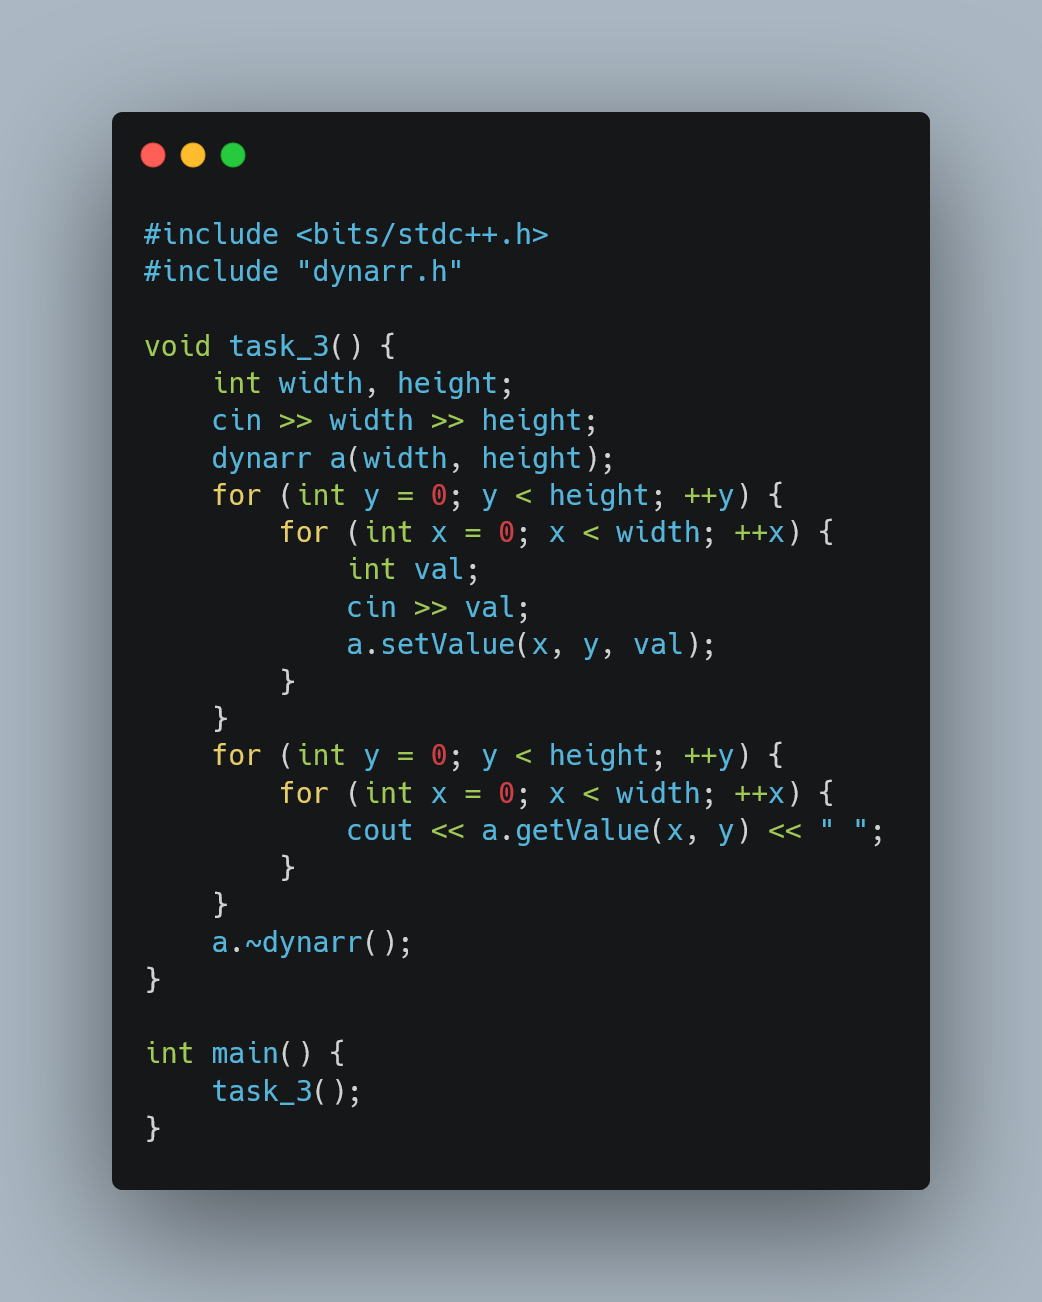
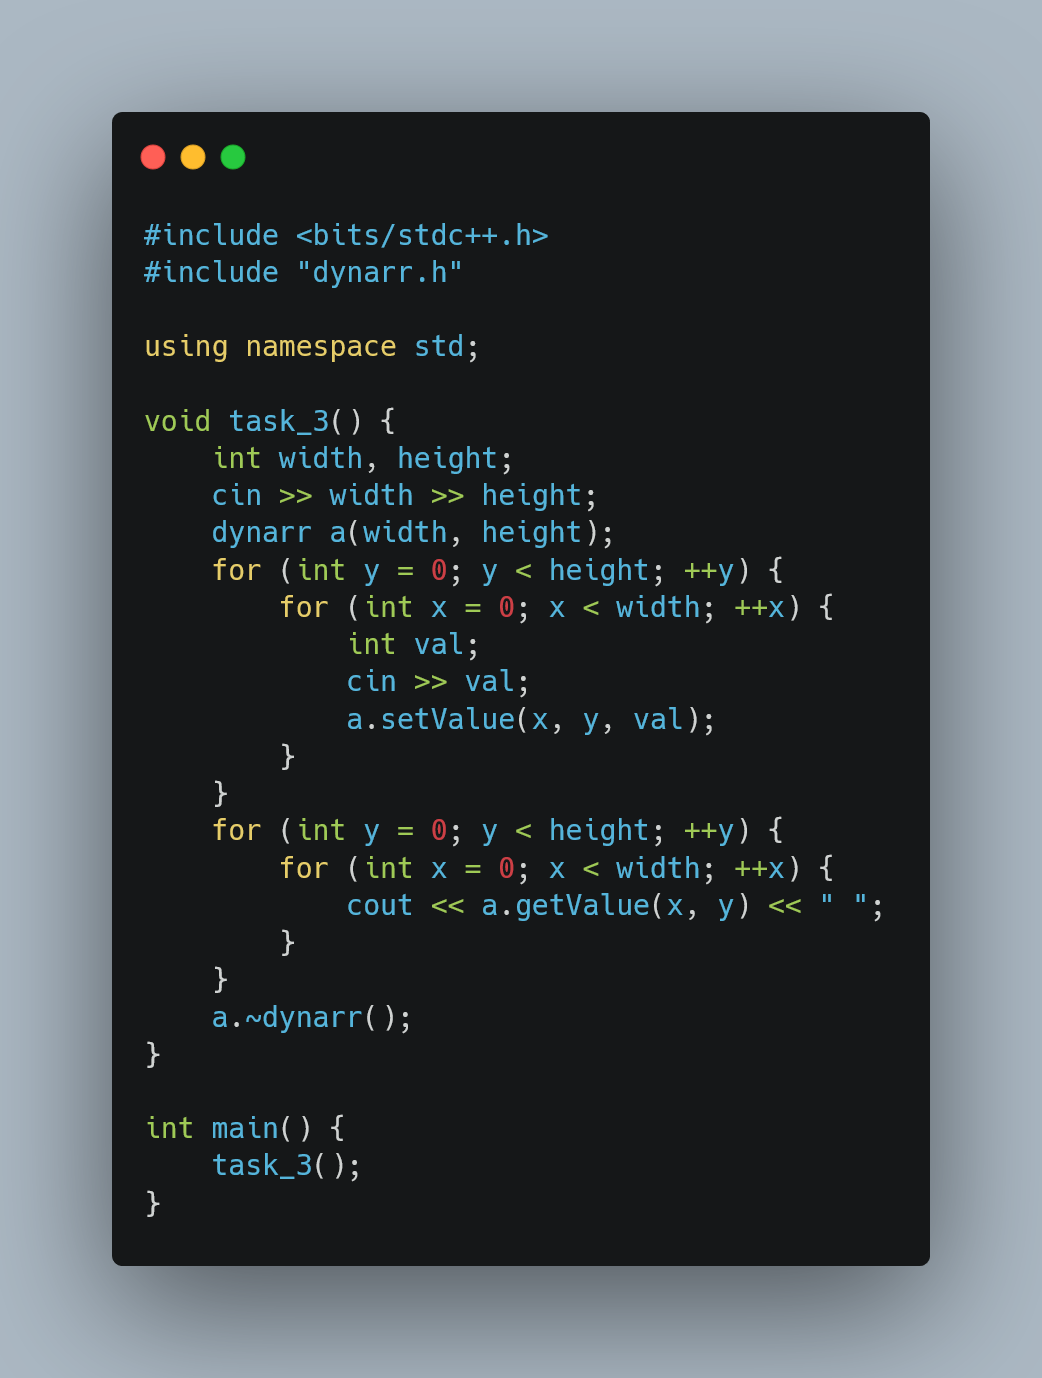
Lab 2

diff --git a/C++/clion/main.cpp b/C++/clion/main.cpp
@@ -45,11 +45,12 @@ void task_3() {
         for (int x = 0; x < width; ++x) {
             cout<<a.getValue(x,y)<<" ";
         }
+        cout<<endl;
     }
     a.~dynarr();
 }
 
 int main() {
-    freopen(R"(C:\Users\Fahim\GolandProjects\CSE225\C++\clion\input.txt)", "r", stdin);
+//    freopen(R"(C:\Users\Fahim\GolandProjects\CSE225\C++\clion\input.txt)", "r", stdin);
     task_3();
 }

diff --git a/C++/Lab/Lab 2/Task 3/main.cpp b/C++/Lab/Lab 2/Task 3/main.cpp
@@ -1,6 +1,8 @@
 #include <bits/stdc++.h>
 #include "dynarr.h"
 
+using namespace std;
+
 void task_3() {
     int width, height;
     cin >> width >> height;

diff --git a/C++/Lab/Lab 2/Task 1/main.cpp b/C++/Lab/Lab 2/Task 1/main.cpp
@@ -1,6 +1,8 @@
 #include <bits/stdc++.h>
 #include "dynarr.h"
 
+using namespace std;
+
 void task_1() {
     int n = 5;
     dynarr a;

diff --git a/C++/Lab/Lab 2/Task 2/main.cpp b/C++/Lab/Lab 2/Task 2/main.cpp
@@ -1,6 +1,8 @@
 #include <bits/stdc++.h>
 #include "dynarr.h"
 
+using namespace std;
+
 void task_2() {
     int n = 5;
     dynarr a;

diff --git a/C++/Lab/Lab 1/README.md b/C++/Lab/Lab 1/README.md
@@ -12,6 +12,6 @@ Using the **new** operator, allocate a two-dimensional character array.Again the
 
 **Task3:**
 
-Task3:Using the **new** operator, allocate a two-dimensional integer array. The number of rows and columns are going to be provided by the user as input. However, in this task, all the rows are not the same size (the array is uneven). The user will specify how many elements the individual rows will have. Assign values to the array elements by taking user inputs and then print the values. Finally, de-allocate the array using the **delete** operator
+Using the **new** operator, allocate a two-dimensional integer array. The number of rows and columns are going to be provided by the user as input. However, in this task, all the rows are not the same size (the array is uneven). The user will specify how many elements the individual rows will have. Assign values to the array elements by taking user inputs and then print the values. Finally, de-allocate the array using the **delete** operator
 
 ![Lab 1 Task 3.cpp](https://imgur.com/aegZ3HE.png)
